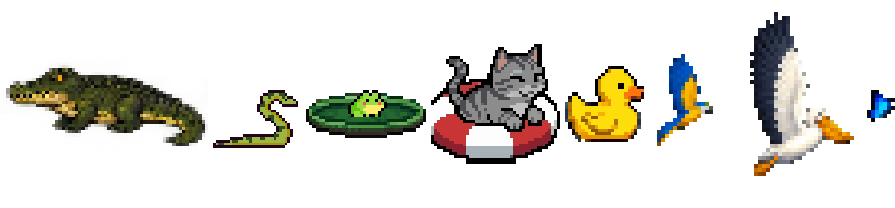
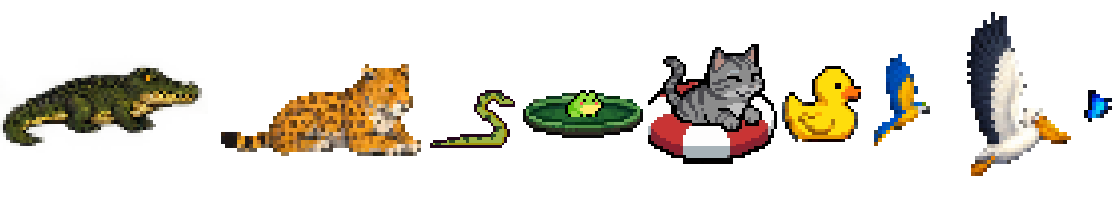
A onca deitada entra na tira de bichos e nos textos das seis linguas
O jacare da tira passou a olhar pra direita, como os outros.

Changed region(s): [[0.0, 0.0577, 1.0, 0.8654]]

diff --git a/ru/index.html b/ru/index.html
@@ -213,13 +213,13 @@
 
   <section>
     <h2>А у реки есть и другие жители</h2>
-    <p>Кайман на берегу, змея у кромки воды, лягушка на листе виктории, ара в небе, пеликан над
+    <p>Кайман на берегу, ягуар, лежащий на песке, змея у кромки воды, лягушка на листе виктории, ара в небе, пеликан над
     самым морем. Они не дают очков, не дают бонусов и не просят кликов — просто проплывают мимо,
     потому что у реки есть звери.</p>
     <p>А иногда мимо проплывает кот на спасательном круге или резиновый утёнок. Этого мы объяснить
     не можем.</p>
     <div class="moldura mar">
-      <img class="arte" src="../arte-bichos.png" alt="Кайман, змея, лягушка на листе виктории, кот на спасательном круге, резиновый утёнок, ара, пеликан и бабочка">
+      <img class="arte" src="../arte-bichos.png" alt="Кайман, лежащий ягуар, змея, лягушка на листе виктории, кот на спасательном круге, резиновый утёнок, ара, пеликан и бабочка">
     </div>
   </section>
 

diff --git a/zh_CN/index.html b/zh_CN/index.html
@@ -178,10 +178,10 @@
 
   <section>
     <h2>河边还住着别的居民</h2>
-    <p>岸上的凯门鳄，水边的蛇，王莲叶上的青蛙，飞过天空的金刚鹦鹉，贴着海面掠过的鹈鹕。它们不给分，不给加成，也不需要你点——它们经过，只因为河边本来就有动物。</p>
+    <p>岸上的凯门鳄，趴在沙滩上的美洲豹，水边的蛇，王莲叶上的青蛙，飞过天空的金刚鹦鹉，贴着海面掠过的鹈鹕。它们不给分，不给加成，也不需要你点——它们经过，只因为河边本来就有动物。</p>
     <p>偶尔还会漂过一只坐在救生圈上的猫，或者一只橡皮小黄鸭。这两个我们也解释不了。</p>
     <div class="moldura mar">
-      <img class="arte" src="../arte-bichos.png" alt="凯门鳄、蛇、王莲叶上的青蛙、坐在救生圈上的猫、橡皮小黄鸭、金刚鹦鹉、鹈鹕和蝴蝶">
+      <img class="arte" src="../arte-bichos.png" alt="凯门鳄、趴着的美洲豹、蛇、王莲叶上的青蛙、坐在救生圈上的猫、橡皮小黄鸭、金刚鹦鹉、鹈鹕和蝴蝶">
     </div>
   </section>
 

diff --git a/de/index.html b/de/index.html
@@ -218,13 +218,13 @@
 
   <section>
     <h2>Und am Fluss wohnen noch andere</h2>
-    <p>Ein Kaiman am Ufer, eine Schlange am Rand, ein Frosch auf der Riesenseerose, ein Ara am
+    <p>Ein Kaiman am Ufer, ein Jaguar, der im Sand liegt, eine Schlange am Rand, ein Frosch auf der Riesenseerose, ein Ara am
     Himmel, ein Pelikan dicht über dem Meer. Sie bringen keine Punkte, keinen Bonus und wollen
     keinen Klick — sie ziehen vorbei, weil an Flüssen eben Tiere leben.</p>
     <p>Und ab und zu treibt eine Katze auf einem Rettungsring vorbei, oder eine Quietscheente. Die
     können wir auch nicht erklären.</p>
     <div class="moldura mar">
-      <img class="arte" src="../arte-bichos.png" alt="Kaiman, Schlange, Frosch auf der Seerose, Katze auf einem Rettungsring, Quietscheente, Ara, Pelikan und Schmetterling">
+      <img class="arte" src="../arte-bichos.png" alt="Kaiman, liegender Jaguar, Schlange, Frosch auf der Seerose, Katze auf einem Rettungsring, Quietscheente, Ara, Pelikan und Schmetterling">
     </div>
   </section>
 

diff --git a/index.html b/index.html
@@ -236,13 +236,13 @@
 
   <section>
     <h2>E o rio tem mais gente</h2>
-    <p>Jacaré na margem, cobra na beirada, sapo em cima da vitória-régia, arara cruzando o
-    céu, pelicano rasando o mar. Não valem ponto, não dão bônus, não pedem clique — passam
+    <p>Jacaré na margem, onça deitada na areia, cobra na beirada, sapo em cima da vitória-régia,
+    arara cruzando o céu, pelicano rasando o mar. Não valem ponto, não dão bônus, não pedem clique — passam
     porque rio tem bicho.</p>
     <p>E de vez em quando passa um gato numa boia, ou um patinho de borracha. Esses aí a
     gente não sabe explicar.</p>
     <div class="moldura mar">
-      <img class="arte" src="arte-bichos.png" alt="Jacaré, cobra, sapo na vitória-régia, gato numa boia, patinho de borracha, arara, pelicano e borboleta">
+      <img class="arte" src="arte-bichos.png" alt="Jacaré, onça deitada, cobra, sapo na vitória-régia, gato numa boia, patinho de borracha, arara, pelicano e borboleta">
     </div>
   </section>
 

diff --git a/es/index.html b/es/index.html
@@ -214,13 +214,13 @@
 
   <section>
     <h2>Y el río tiene más vecinos</h2>
-    <p>Un yacaré en la orilla, una serpiente en el borde, una rana sobre la victoria regia, un
+    <p>Un yacaré en la orilla, un jaguar echado en la arena, una serpiente en el borde, una rana sobre la victoria regia, un
     guacamayo cruzando el cielo, un pelícano rozando el mar. No dan puntos, no dan bonos, no piden
     clics — pasan porque en los ríos hay bichos.</p>
     <p>Y de vez en cuando pasa un gato en un salvavidas, o un patito de goma. Esos no sabemos
     explicarlos.</p>
     <div class="moldura mar">
-      <img class="arte" src="../arte-bichos.png" alt="Yacaré, serpiente, rana sobre la victoria regia, gato en un salvavidas, patito de goma, guacamayo, pelícano y mariposa">
+      <img class="arte" src="../arte-bichos.png" alt="Yacaré, jaguar echado, serpiente, rana sobre la victoria regia, gato en un salvavidas, patito de goma, guacamayo, pelícano y mariposa">
     </div>
   </section>
 

diff --git a/en/index.html b/en/index.html
@@ -215,13 +215,13 @@
 
   <section>
     <h2>And the river has other residents</h2>
-    <p>A caiman on the bank, a snake at the water's edge, a frog on a giant lily pad, a macaw
+    <p>A caiman on the bank, a jaguar lying on the sand, a snake at the water's edge, a frog on a giant lily pad, a macaw
     crossing the sky, a pelican skimming the sea. They are worth no points, give no bonus and ask
     for no clicks — they pass by because rivers have animals.</p>
     <p>And every so often a cat on a life ring drifts past, or a rubber duck. Those two we cannot
     explain.</p>
     <div class="moldura mar">
-      <img class="arte" src="../arte-bichos.png" alt="Caiman, snake, frog on a lily pad, cat on a life ring, rubber duck, macaw, pelican and butterfly">
+      <img class="arte" src="../arte-bichos.png" alt="Caiman, jaguar lying down, snake, frog on a lily pad, cat on a life ring, rubber duck, macaw, pelican and butterfly">
     </div>
   </section>
 
